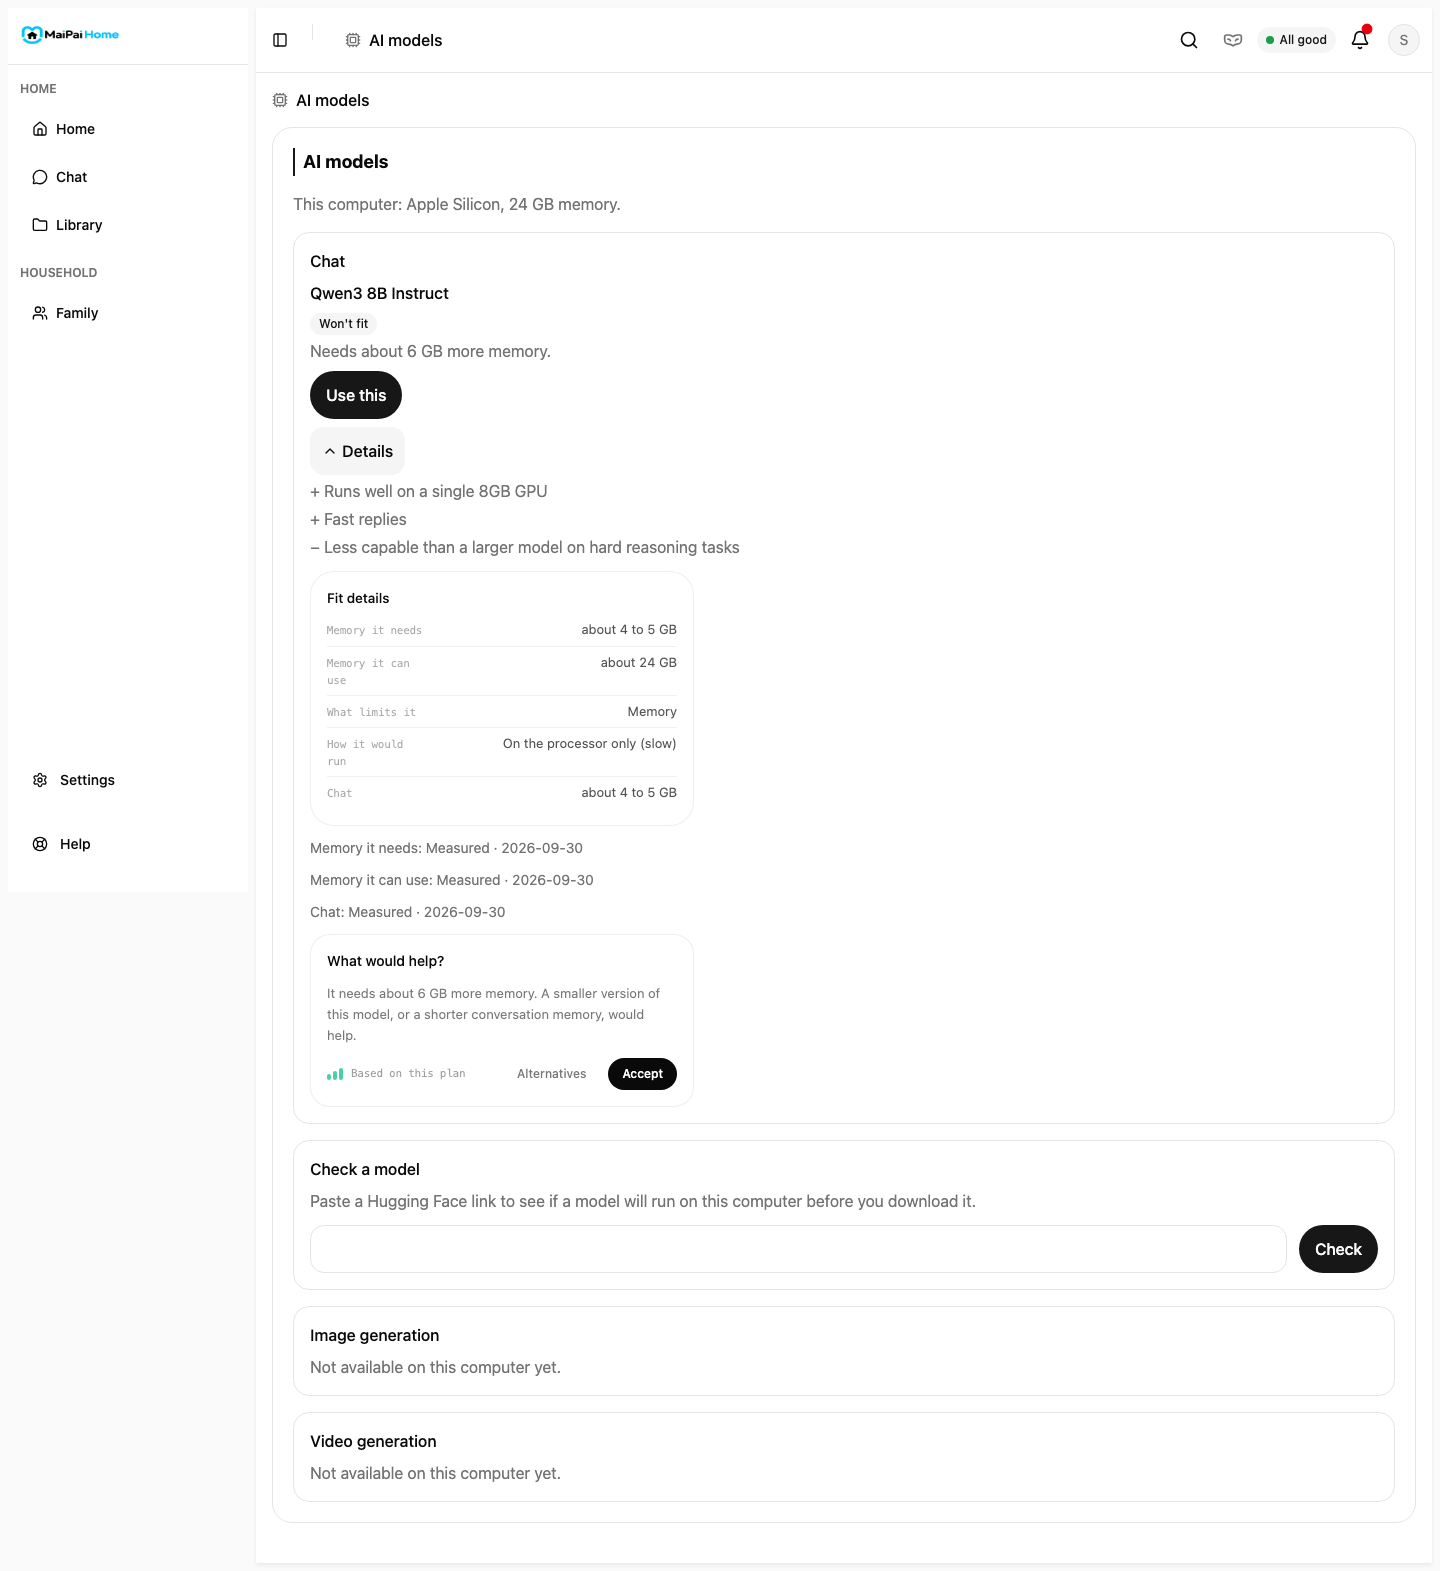
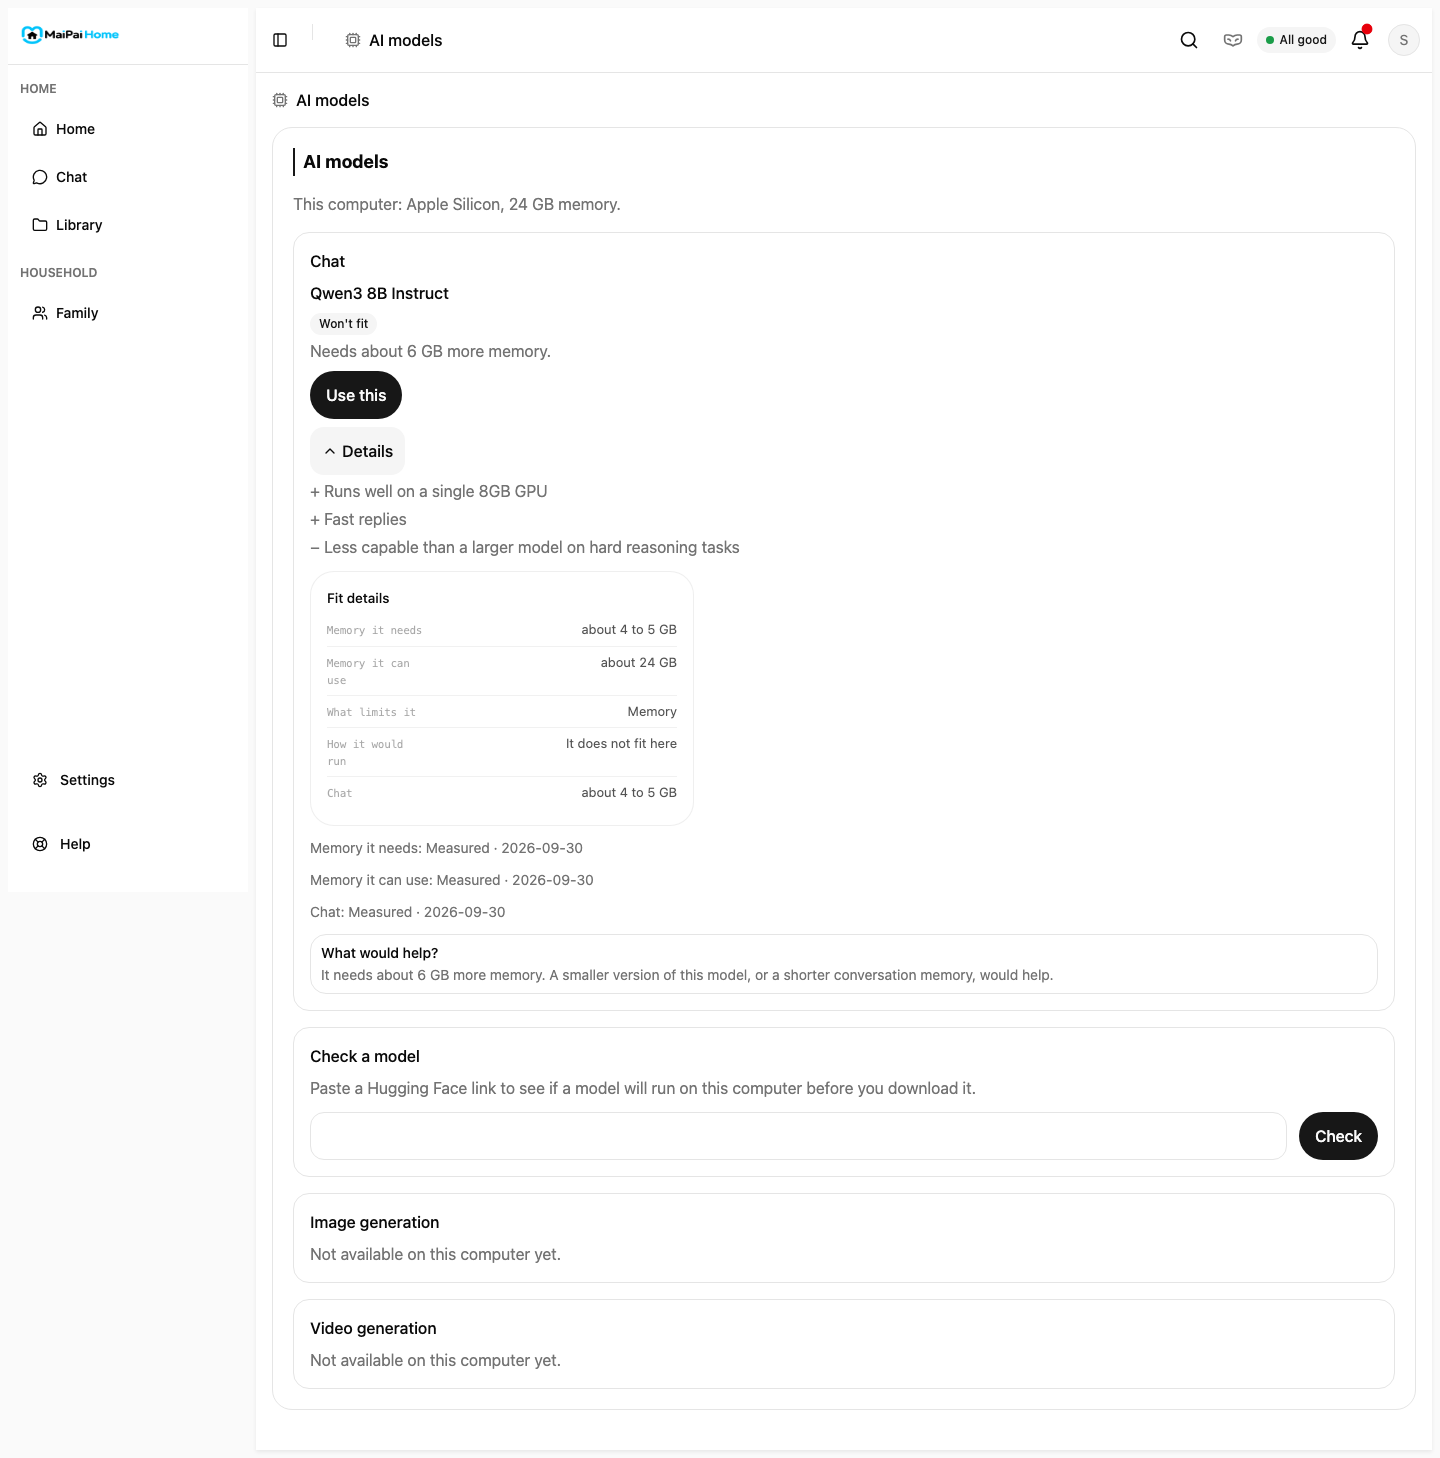
Home: the fit panel drops its dead buttons and stops contradicting a no (HOME-FIT-03C)
The fit panel now gives advice without inactive controls. No verdicts and unknown verdicts now describe how the model would run honestly.

diff --git a/frontend/src/apps/settings/ModelsSection.tsx b/frontend/src/apps/settings/ModelsSection.tsx
@@ -10,7 +10,7 @@ import { formatBytes } from "@/apps/settings/formatBytes";
 import { useFitPlan } from "@/lib/useFitPlan";
 import { parseModelLink } from "@/lib/modelLink";
 import { SpecSheet } from "@maipai/ui/src/elements/spec-sheet";
-import { RecommendationCard } from "@maipai/ui/src/elements/recommendation-card";
+import { Alert, AlertDescription, AlertTitle } from "@maipai/ui/src/dashboard/components/ui/alert";
 import { describeFitPlan, type FitPanelRow } from "@/lib/fitPanel";
 import type { FitPlanResponse } from "@/lib/api";
 
@@ -499,7 +499,7 @@ function DetailsFitPanel({ modelUrl, contextTokens, legacyBytes }: { modelUrl: s
 function FitPanel({ response }: { response: FitPlanResponse }) {
   if (!response.plan) return null;
   const { rows, remedy } = describeFitPlan(response.plan);
-  return <div className="flex flex-col gap-3 pt-2"><SpecSheet title="Fit details" rows={rows.map(({ label, value }) => ({ label, value }))} visibleCount={rows.length} />{rows.filter((row) => row.source && row.source !== "unknown").map((row) => <FitSource key={row.label} row={row} />)}{remedy ? <RecommendationCard question="What would help?" state="idle" confidenceLabel="Based on this plan" acceptedLabel="" onAlternatives={() => {}} onAccept={() => {}}>{remedy}</RecommendationCard> : null}</div>;
+  return <div className="flex flex-col gap-3 pt-2"><SpecSheet title="Fit details" rows={rows.map(({ label, value }) => ({ label, value }))} visibleCount={rows.length} />{rows.filter((row) => row.source && row.source !== "unknown").map((row) => <FitSource key={row.label} row={row} />)}{remedy ? <Alert><AlertTitle>What would help?</AlertTitle><AlertDescription>{remedy}</AlertDescription></Alert> : null}</div>;
 }
 
 function FitSource({ row }: { row: FitPanelRow }) {

diff --git a/frontend/src/lib/fitPanel.ts b/frontend/src/lib/fitPanel.ts
@@ -25,7 +25,7 @@ export function describeFitPlan(plan: StackFitPlan): { rows: FitPanelRow[]; reme
     { label: "Memory it needs", value: range(plan.total.low, plan.total.high), source: plan.total.source, asOf: plan.total.as_of },
     { label: "Memory it can use", value: plan.cap.high === null ? "Not known yet" : `about ${wholeGb(plan.cap.high)} GB`, source: plan.cap.source, asOf: plan.cap.as_of },
     { label: "What limits it", value: bottleneckNames[plan.bottleneck] },
-    { label: "How it would run", value: pathNames[plan.paths.find((p) => p.verdict === "yes" || p.verdict === "slow")?.path ?? "cpu"] },
+    { label: "How it would run", value: plan.verdict === "no" ? "It does not fit here" : plan.verdict === "unknown" ? "Not known yet" : pathNames[plan.paths.find((p) => p.verdict === "yes" || p.verdict === "slow")?.path ?? "cpu"] },
     ...plan.roles.map((role) => ({ label: roleNames[role.role], value: range(role.peak.low, role.peak.high), source: role.peak.source, asOf: role.peak.as_of })),
   ];
   let remedy: string | null = null;

diff --git a/frontend/src/lib/fitPanel.test.ts b/frontend/src/lib/fitPanel.test.ts
@@ -26,6 +26,14 @@ describe("describeFitPlan", () => {
       expect(result.rows[0]?.asOf).toBe(source.total.as_of);
     }
   });
+  test("says a no plan does not fit even when a listed CPU path fits", () => {
+    const source = plan("no");
+    source.paths = [{ path: "cpu", fits: true, verdict: "yes" }];
+    expect(describeFitPlan(source).rows.find((row) => row.label === "How it would run")?.value).toBe("It does not fit here");
+  });
+  test("says the run path is not known for an unknown plan", () => {
+    expect(describeFitPlan(plan("unknown")).rows.find((row) => row.label === "How it would run")?.value).toBe("Not known yet");
+  });
   test("reports unknown figures without inventing values", () => {
     const source = plan("unknown");
     source.total = unknownFigure();

diff --git a/frontend/src/apps/settings/ModelsSection.test.tsx b/frontend/src/apps/settings/ModelsSection.test.tsx
@@ -182,6 +182,8 @@ describe("ModelsSection", () => {
       await findByText("Use this");
       fireEvent.click(getByText("Details"));
       await findByText("It needs about 6 GB more memory. A smaller version of this model, or a shorter conversation memory, would help.");
+      expect(document.querySelector('[data-slot="recommendation-card"]')).toBeNull();
+      expect(document.querySelector('[role="alert"]')).not.toBeNull();
     } finally { restore(); }
   });
 

diff --git a/docs/BACKLOG.md b/docs/BACKLOG.md
@@ -528,7 +528,7 @@ The hub installs on what a family has; the Studio is the top of the range, not t
 
 - [ ] **HOME-FIT-02: the verdict on every model row, with the sizing strip** (M, Sonnet; screens 1 and 2 of the plan). Objective: the model picker and the Models page show a status pill and one short reason on every row, a search box that filters as you type, an "Only models that fit" switch, and the three sizing controls (memory of the conversation as a slider, Full/Quantized/Auto, the switch) that re-ask HOME-FIT-01 and update rows in place. Made only of shipped kit parts (`model-picker`, `model-selector`, `data-table`, `command-palette`, `range`, `context-display`, the status pill, `confidence-marker`), restyled by tokens alone; the pill-with-reason is the pill and the marker side by side. Acceptance: the flow driven headless against a seeded demo household with a stubbed Stack, screenshots (desktop and phone width) generated, opened and judged; unknown reads "can't tell yet", never red. Out of scope: the detail panel, compare. Exit: `bash scripts/check.sh` plus the screenshots.
 
-- [ ] **HOME-FIT-03: (03A, the panel, landed 2026-09-30; 03B, the computer beside the list, open) the model's fit panel and the computer beside the list** (M, Sonnet; screens 3 and 4). Objective: a model's detail shows the plan laid out (memory needed as a range, memory available now, the way it would run, what limits it, where the number came from and when) and, when it will not fit, what would make it fit; a narrow card beside the list shows what is loaded now (one line per role), what is free and the usable limit. Kit parts: the icon-tile metric cards, `context-breakdown`, `spec-sheet`, `recommendation-card`, `inline-citation`; expand and collapse animate. Acceptance: headless flow and screenshots as above; the numbers on the panel equal the plan's, checked by a test. Also SETUP-SIZE-01 reuses this panel for its proposal and step-down. Exit: `bash scripts/check.sh` plus the screenshots.
+- [ ] **HOME-FIT-03: (03A, the panel, landed 2026-09-30 (and the 03C fixes: no dead buttons, an honest 'how it would run' for a no); 03B, the computer beside the list, open) the model's fit panel and the computer beside the list** (M, Sonnet; screens 3 and 4). Objective: a model's detail shows the plan laid out (memory needed as a range, memory available now, the way it would run, what limits it, where the number came from and when) and, when it will not fit, what would make it fit; a narrow card beside the list shows what is loaded now (one line per role), what is free and the usable limit. Kit parts: the icon-tile metric cards, `context-breakdown`, `spec-sheet`, `recommendation-card`, `inline-citation`; expand and collapse animate. Acceptance: headless flow and screenshots as above; the numbers on the panel equal the plan's, checked by a test. Also SETUP-SIZE-01 reuses this panel for its proposal and step-down. Exit: `bash scripts/check.sh` plus the screenshots.
 
 - [ ] **HOME-FIT-04: compare and copy** (S, Sonnet; screen 5). Objective: mark two or three models, see them side by side (`comparison-card`), and copy a plain-text summary of what fits and what does not; nothing is sent anywhere. Acceptance: the copied text is the same for the same plans (a test), contains no household facts, and the flow is exercised headless with a screenshot. Exit: `bash scripts/check.sh`.
 
